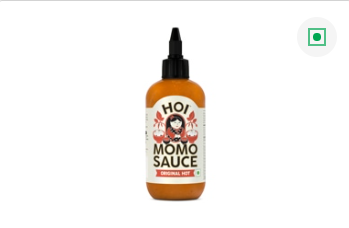
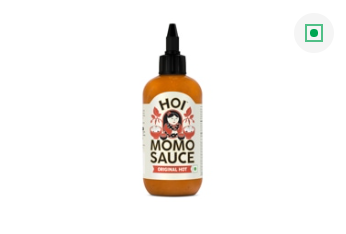
original souce page is ready

Changed region(s): [[0.4046, 0.0921, 0.6069, 0.8904], [0.0, 0.0, 1.0, 0.0307], [0.8671, 0.0921, 0.9538, 0.2149]]

diff --git a/pages/week-card/original-souce.html b/pages/week-card/original-souce.html
@@ -9,39 +9,39 @@
 <body>
     <div class="prd-div">
         <div class="prd-div2">
-            <img src="./../../images/week-img/c.png" alt="colgate" class="product-img">
+            <img src="./../../images/week-img/original souce.png" alt="colgate" class="product-img">
         </div>
 
         <div class="prd-div3">
-            <p style="font-size: 25px;"><b>Colgate Total Advanced Health Toothpaste </b>: 300g</p>
-            <a href="">colgate</a>
+            <p style="font-size: 25px;"><b>Hoi Momo Sauce - Original Hot: </b> 250g</p>
+            <a href="">Hoi</a>
             <p>Variant</p><br>
 
-            <button class="product-btn1">300g</button>
+            <button class="product-btn1">250g</button>
             <hr>
 
             <div class="prd-div4">
                 <div>
-                    <p style="color: #999999;">MRP <del> ₹ 370</del><br>(Inclusive of all taxes)</p>
+                    <p style="color: #999999;">MRP <del> ₹ 85</del><br>(Inclusive of all taxes)</p>
                 </div>
 
                 <div class="prd-div6">
                     <div>
-                        <p>Dmart <b>₹ 260</b></p>
+                        <p>Dmart <b>₹ 42</b></p>
                     </div>
                     <div class="prd-div7">
-                        <p >₹ 0.87/1gm</p>
+                        <p >₹ 0.17/1gm</p>
                     </div>
                     
                 </div>
             </div>
             <div style="display: flex;">
             <div class="prd-div5">
-                <p><b>SAVE &nbsp; ₹ 110</b></p>
+                <p><b>SAVE &nbsp; ₹ 43</b></p>
                 
             </div>
             <div >
-                <button class="add-btn">ADD to cart</button>
+                <button class="add-btn"><img src="./../../images/Add_to_cart.png" class="shop-img">ADD to cart</button>
             </div>
         </div>
         <br>
@@ -53,28 +53,12 @@
     <div class="Discription">
     <h2>Discription</h2>
     <b>Product Highlights:</b>
-<p>- Protects against germs on teeth, tongue, cheeks, and gums.<br>
-    - Dual Zinc Arginine Technology<br>
-    - Strengthens teeth, fights plaque, and repairs early damage.<br>
-    - Keeps breath fresh with every brush.<br>
-    - Certified by the Indian Dental Association, gluten free, and responsibly made.
-</p>
-
-<b>Details from Manufacturer:</b><br>
-<b>Overview:</b><br><br>
-
-Only 20% of the germs in your mouth are on your teeth, the rest 80% are on gums, tongue and cheeks. Colgate Total antibacterial toothpaste fights germs on teeth, tongue, cheeks, and gums giving you a Whole Mouth Health for 12 hours. Its dual Zinc Arginine technology actively seeks out bacteria in your mouth forming a protective barrier. Colgate Total Advanced Health toothpaste strengthens your teeth by re-mineralizing weakened enamel. It fights plaque to keep your gums healthy and repairs early teeth & gum damage, all to give you a healthier & whiter smile. Colgate toothpaste not only does it fight plaque between your teeth and in all those hard to reach spaces, but also fights bacteria on your tongue, cheeks, and gums leaving your mouth with a fresh breath. Moisturise your brush with water. Put a pea size amount of our Colgate toothpaste on the head of the toothbrush. Insert the toothbrush into your mouth & use gentle, short strokes to brush your teeth. For optimal results, brush twice daily for 2min. Our Colgate Anti-Bacterial toothpaste is certified by the Indian Dental Association and responsibly sourced and made. It is gluten free.
-<br><br>
-<b>Key Features:</b><br>
-12-HOUR DEFENSE: Only 20% of the germs in your mouth are on your teeth. 80% are on your gums, tongue, and cheeks. Colgate Total not only KILLS the germs on the teeth, tongue, cheeks, and gums but also DEFENDS your mouth from them for 12 hours.
-ANTI-GERM SHIELD: Featuring Dual Zinc Arginine technology, this toothpaste actively targets bacteria on your teeth, tongue, cheeks, and gums, creating a protective anti-germ barrier for enhanced oral health - a step above ordinary toothpaste.
- Colgate Total helps prevent cavities, plaque build-up, tartar formation, gingivitis, and sensitivity. It is also certified by the Indian Dental Association, gluten-free, and responsibly made.
-RECOMMENDED USAGE: For optimal results, brush twice a day for 2 minutes each time. Adult supervision is advised for children below 6 years of age.
-DAILY HABITS FOR HEALTHY SMILES: Brush twice a day, rinse with mouthwash for 30 seconds, and replace your toothbrush every 3 months to keep your teeth and gums healthy, prevent tooth decay, gum diseases, and bad breath.
-<br><br>
-<b>How to Use:</b><br>
-
-Put a pea size amount of toothpaste on the toothbrush head. Insert the toothbrush into your mouth & use gentle short strokes.
+<p>
+    - Hot and Spicy<br>
+    - 250 Gm<br>
+    - Goes well with momo<br>
+    - Pure vegetarian
+    </p>
 </div>
 
 </body>

diff --git a/pages/week-card/upma.html b/pages/week-card/upma.html
@@ -9,7 +9,7 @@
 <body>
     <div class="prd-div">
         <div class="prd-div2">
-            <img src="./../../images/week-img/colgate.png" alt="colgate" class="product-img">
+            <img src="./../../images/week-img/upma.png" alt="Upma" class="product-img">
         </div>
 
         <div class="prd-div3">
@@ -41,7 +41,7 @@
                 
             </div>
             <div >
-                <button class="add-btn">ADD to cart</button>
+                <button class="add-btn"><img src="./../../images/Add_to_cart.png" class="shop-img">ADD to cart</button>
             </div>
         </div>
         <br>

diff --git a/pages/week-card/classic-souce.html b/pages/week-card/classic-souce.html
@@ -41,7 +41,7 @@
                 
             </div>
             <div >
-                <button class="add-btn">ADD to cart</button>
+                <button class="add-btn"><img src="./../../images/Add_to_cart.png" class="shop-img">ADD to cart</button>
             </div>
         </div>
         <br>

diff --git a/pages/week-card/colgate.html b/pages/week-card/colgate.html
@@ -42,7 +42,7 @@
                 
             </div>
             <div >
-                <button class="add-btn">ADD to cart</button>
+                <button class="add-btn"><img src="./../../images/Add_to_cart.png" class="shop-img">ADD to cart</button>
             </div>
         </div>
         <br>

diff --git a/pages/week-card/tablet.html b/pages/week-card/tablet.html
@@ -35,7 +35,7 @@
                 
             </div>
             <div >
-                <button class="add-btn">ADD to cart</button>
+                <button class="add-btn"><img src="./../../images/Add_to_cart.png" class="shop-img">ADD to cart</button>
             </div>
         </div>
         <br>

diff --git a/css/week.css b/css/week.css
@@ -174,6 +174,7 @@ body{
     margin-left: 150px;
     margin-top: 15px;
     cursor: pointer;
+    padding-bottom: 5px;
 }
 .veg{
     background-color: #e2d3d3; 
